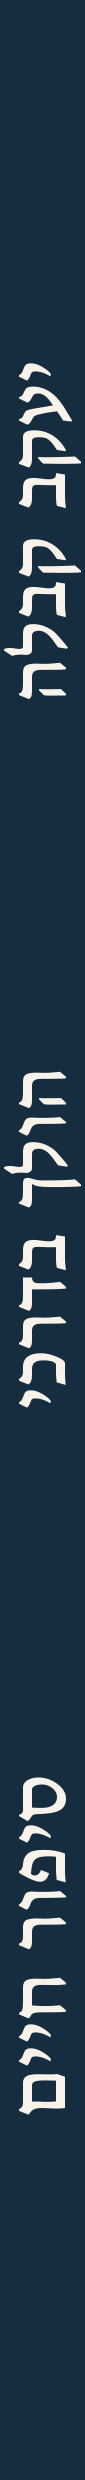
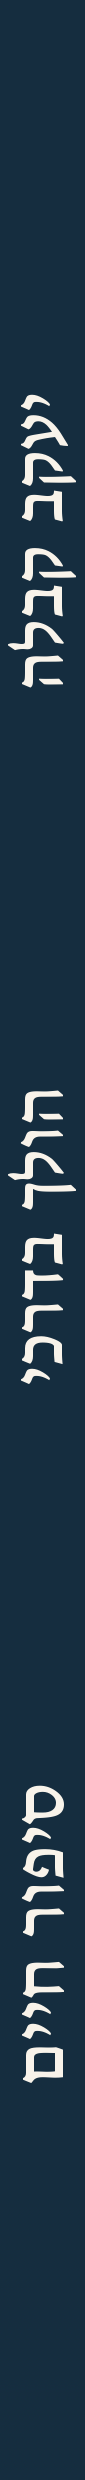
Spine viewer: reduce spine font further (soft x0.80, hard x0.68); cache-bust v=7

Changed region(s): [[0.0941, 0.1242, 0.8941, 0.2794], [0.2353, 0.7141, 0.7765, 0.8694], [0.0941, 0.4347, 0.8941, 0.5899]]

diff --git a/index.html b/index.html
@@ -633,7 +633,7 @@
     <button id="spineClose" onclick="closeSpine()" title="סגור" aria-label="סגור">
       <svg viewBox="0 0 24 24" width="18" height="18"><path d="M6 6l12 12M18 6 6 18"/></svg>
     </button>
-    <div id="spineStage"><img id="spineImg" src="images/spines/woodfree180gsm_hardcover.png?v=6" alt="שדרת הספר"/></div>
+    <div id="spineStage"><img id="spineImg" src="images/spines/woodfree180gsm_hardcover.png?v=7" alt="שדרת הספר"/></div>
     <div id="spineControls">
       <div id="spineTypeSel" class="spine-seg">
         <button type="button" class="spine-seg-btn on" data-type="hardcover" onclick="setSpineType('hardcover')">כריכה קשה</button>
@@ -1543,7 +1543,7 @@ function renderSpine() {
   var paper = document.getElementById('spinePaperSel').value;
   var info = SPINE_PAPER_MM[paper];
   var img = document.getElementById('spineImg');
-  img.src = 'images/spines/' + paper + '_' + spineType + '.png?v=6';
+  img.src = 'images/spines/' + paper + '_' + spineType + '.png?v=7';
   var typeHeb = spineType === 'hardcover' ? 'כריכה קשה' : 'כריכה רכה';
   var mm = info[spineType];
   document.getElementById('spineCaption').textContent =
